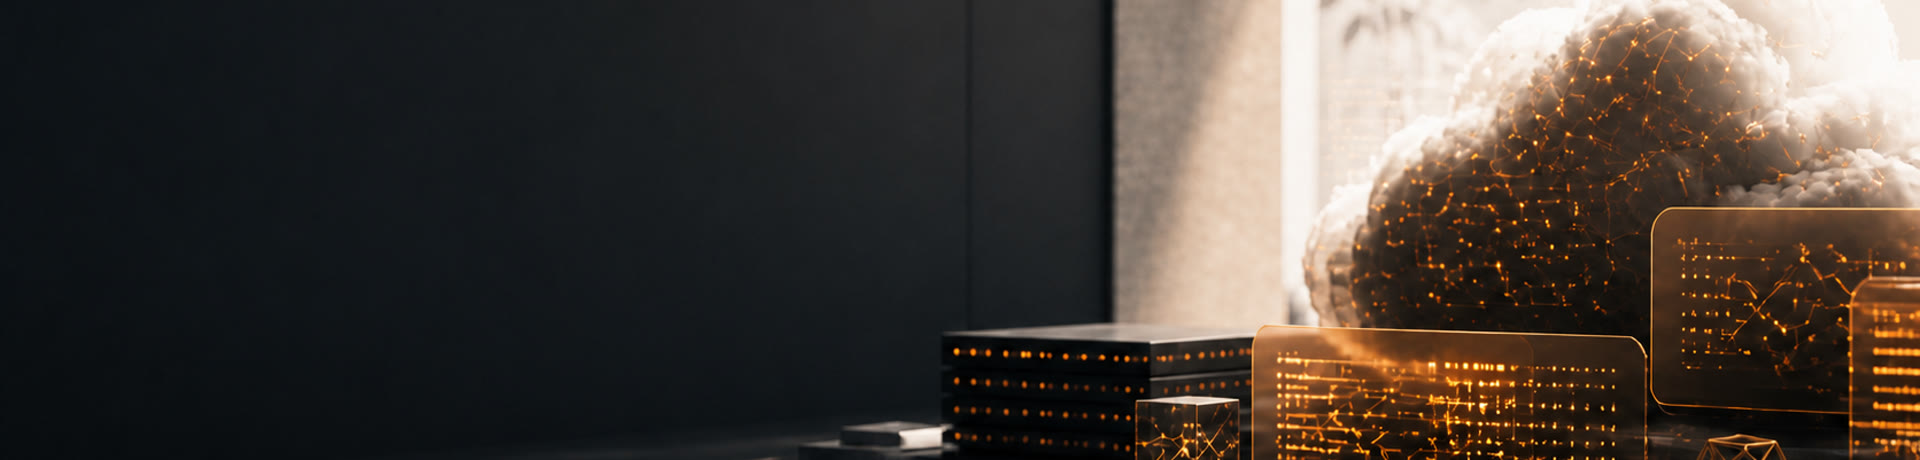
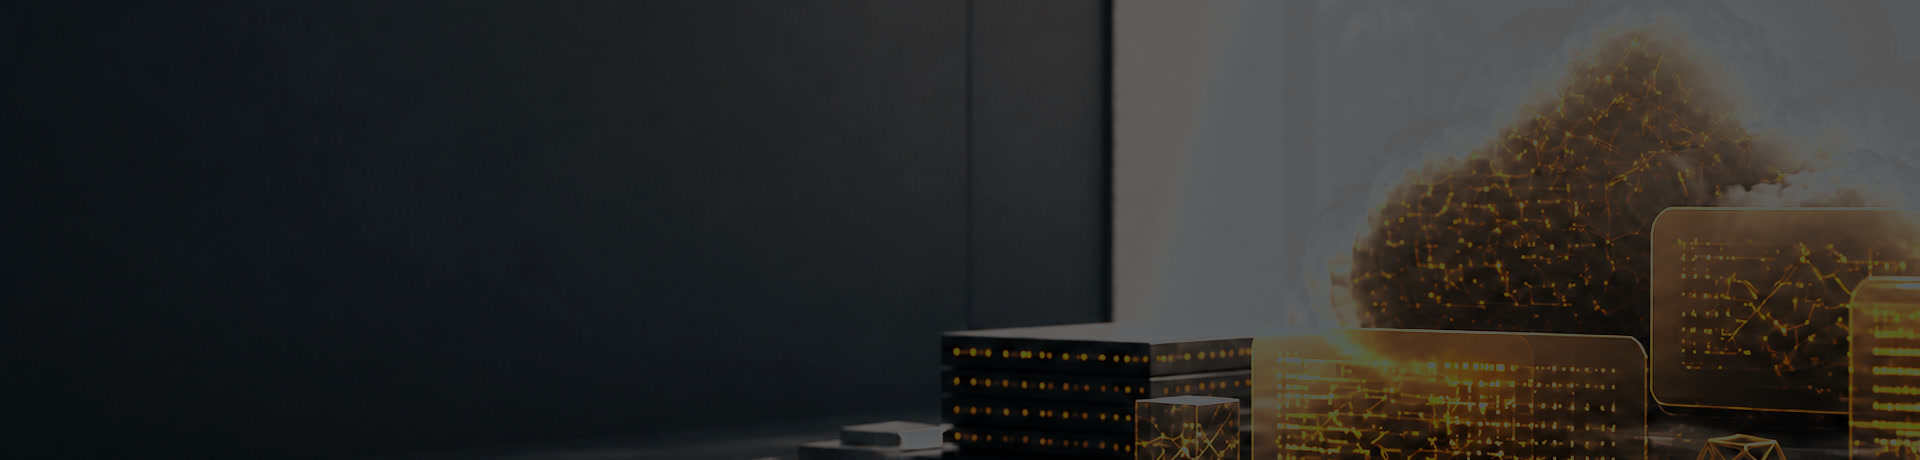
Roll off the band image highlights so the header graphic reads through a lighter gradient

diff --git a/docs/styles.css b/docs/styles.css
@@ -146,7 +146,7 @@ h3 { font-size: 1.25rem; }
 .fact-value { display: block; margin-bottom: 12px; color: var(--orange-text); font-size: 2rem; font-weight: 850; line-height: 1.1; }
 .flow-step { position: relative; min-height: 200px; }
 
-.page-hero { padding: 104px clamp(32px, 6vw, 104px) 96px; background: linear-gradient(90deg, rgba(39, 49, 56, 0.96) 0%, rgba(39, 49, 56, 0.92) 70%, rgba(39, 49, 56, 0.82) 100%), url("assets/tectori-band.jpg") center / cover no-repeat, var(--charcoal); color: var(--white); }
+.page-hero { padding: 104px clamp(32px, 6vw, 104px) 96px; background: linear-gradient(90deg, rgba(39, 49, 56, 0.75) 0%, rgba(39, 49, 56, 0.70) 60%, rgba(39, 49, 56, 0.55) 100%), url("assets/tectori-band.jpg") center / cover no-repeat, var(--charcoal); color: var(--white); }
 .page-hero-inner { width: min(1480px, 100%); margin: 0 auto; }
 .page-hero h1 { max-width: 1050px; font-size: clamp(2.35rem, 3.92vw, 4.23rem); }
 .page-lead { max-width: 900px; margin: 24px 0 0; color: rgba(254, 255, 254, 0.82); font-size: 1.22rem; }
@@ -253,7 +253,7 @@ h3 { font-size: 1.25rem; }
   .hero-actions, .hero-actions .button { width: 100%; }
   .section, .content-section { width: min(100% - 40px, 1480px); padding: 68px 0; }
   .dark-band, .soft-band, .band, .cta-band, .resilience-band { padding: 68px 20px; }
-  .page-hero { padding: 76px 20px 70px; background-image: linear-gradient(90deg, rgba(39, 49, 56, 0.97) 0%, rgba(39, 49, 56, 0.90) 100%), url("assets/tectori-band.jpg"); }
+  .page-hero { padding: 76px 20px 70px; background-image: linear-gradient(90deg, rgba(39, 49, 56, 0.75) 0%, rgba(39, 49, 56, 0.55) 100%), url("assets/tectori-band.jpg"); }
   .page-hero h1 { font-size: 2rem; }
   .proof-strip, .solution-grid, .service-grid, .path-grid, .fact-grid, .practice-grid, .principles, .flow-grid, .credential-list, .resilience-grid, .site-footer { grid-template-columns: 1fr; }
   .proof-strip div { min-height: 0; border-right: 0; border-bottom: 1px solid var(--line); }
